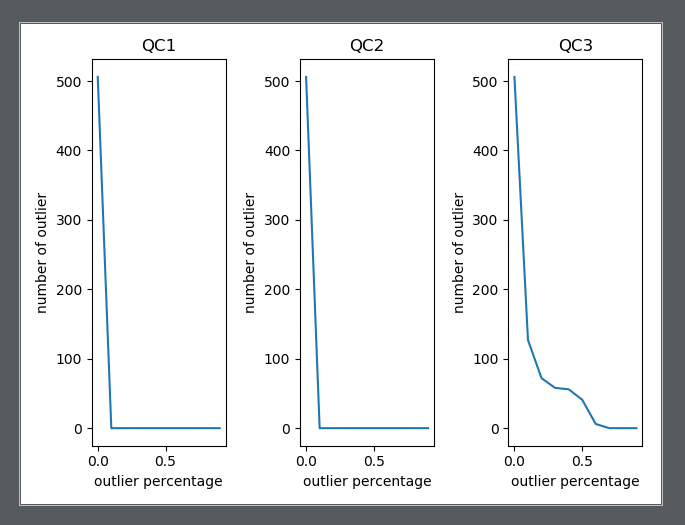
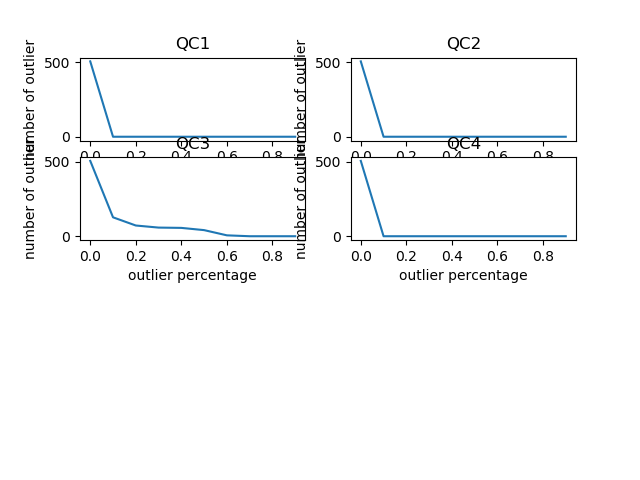
Added QC4

diff --git a/scripts/qc.py b/scripts/qc.py
@@ -5,6 +5,7 @@ import numpy as np
 import util
 import pickle
 import matplotlib.pyplot as plt
+from matplotlib import pylab
 from pprint import pprint
 
 def get_elementlist_from_matlist(mat_list):
@@ -62,9 +63,21 @@ def qc3(mat_list, expected_outlier_percent):
 
     return count
 
+def qc4(mat_list, expected_outlier_percent):
+    dim = len(mat_list[0])
+    threshold = 0.3
+    distances = []
+    for i in range(0, len(mat_list)):
+        d = []
+        for j in range(0, len(mat_list)):
+            if i != j:
+                d.append(((mat_list[i] > threshold) != (mat_list[j] > threshold)).sum())
+        distances.append(np.percentile(d, 0.5))
+
+    return (np.asarray(distances) > expected_outlier_percent * dim * dim).sum()
 if __name__ == '__main__':
     directory = 'AD-Data'
-    #mat_list = util.readMatricesFromDirectory(join(os.pardir, directory))
+    mat_list = util.readMatricesFromDirectory(join(os.pardir, directory))
     threshold = [i/10 for i in range(0, 10)]
 
     try:
@@ -91,23 +104,41 @@ if __name__ == '__main__':
             qc3_outlier_count.append(qc3(mat_list, t))
         pickle.dump(qc3_outlier_count, open('qc3_outlier_count.p', 'wb'))
 
-    plt.subplot(1, 3, 1)
+    try:
+        qc4_outlier_count = pickle.load(open('qc4_outlier_count.p', 'rb'))
+    except FileNotFoundError:
+        qc4_outlier_count = []
+        for t in threshold:
+            qc4_outlier_count.append(qc4(mat_list, t))
+        pickle.dump(qc1_outlier_count, open('qc4_outlier_count.p', 'wb'))
+
+    print("Done !!!")
+    plt.subplot(2, 2, 1)
     plt.title("QC1")
     plt.xlabel("outlier percentage")
     plt.ylabel("number of outlier")
+    plt.subplots_adjust(bottom=0.5)
     plt.plot(threshold, qc1_outlier_count)
-    plt.subplot(1, 3, 2)
+    plt.subplot(2, 2, 2)
     plt.title("QC2")
     plt.xlabel("outlier percentage")
     plt.ylabel("number of outlier")
+    plt.subplots_adjust(bottom=0.5)
     plt.plot(threshold, qc2_outlier_count)
-    plt.subplot(1, 3, 3)
+    plt.subplot(2, 2, 3)
     plt.title("QC3")
     plt.xlabel("outlier percentage")
     plt.ylabel("number of outlier")
     plt.plot(threshold, qc3_outlier_count)
-    plt.figure().savefig('qc.png')
+    plt.subplot(2, 2, 4)
+    plt.title("QC4")
+    plt.xlabel("outlier percentage")
+    plt.ylabel("number of outlier")
+    plt.plot(threshold, qc4_outlier_count)
+
+    pylab.savefig('qc.png')
     plt.show()
+
 
 
 
